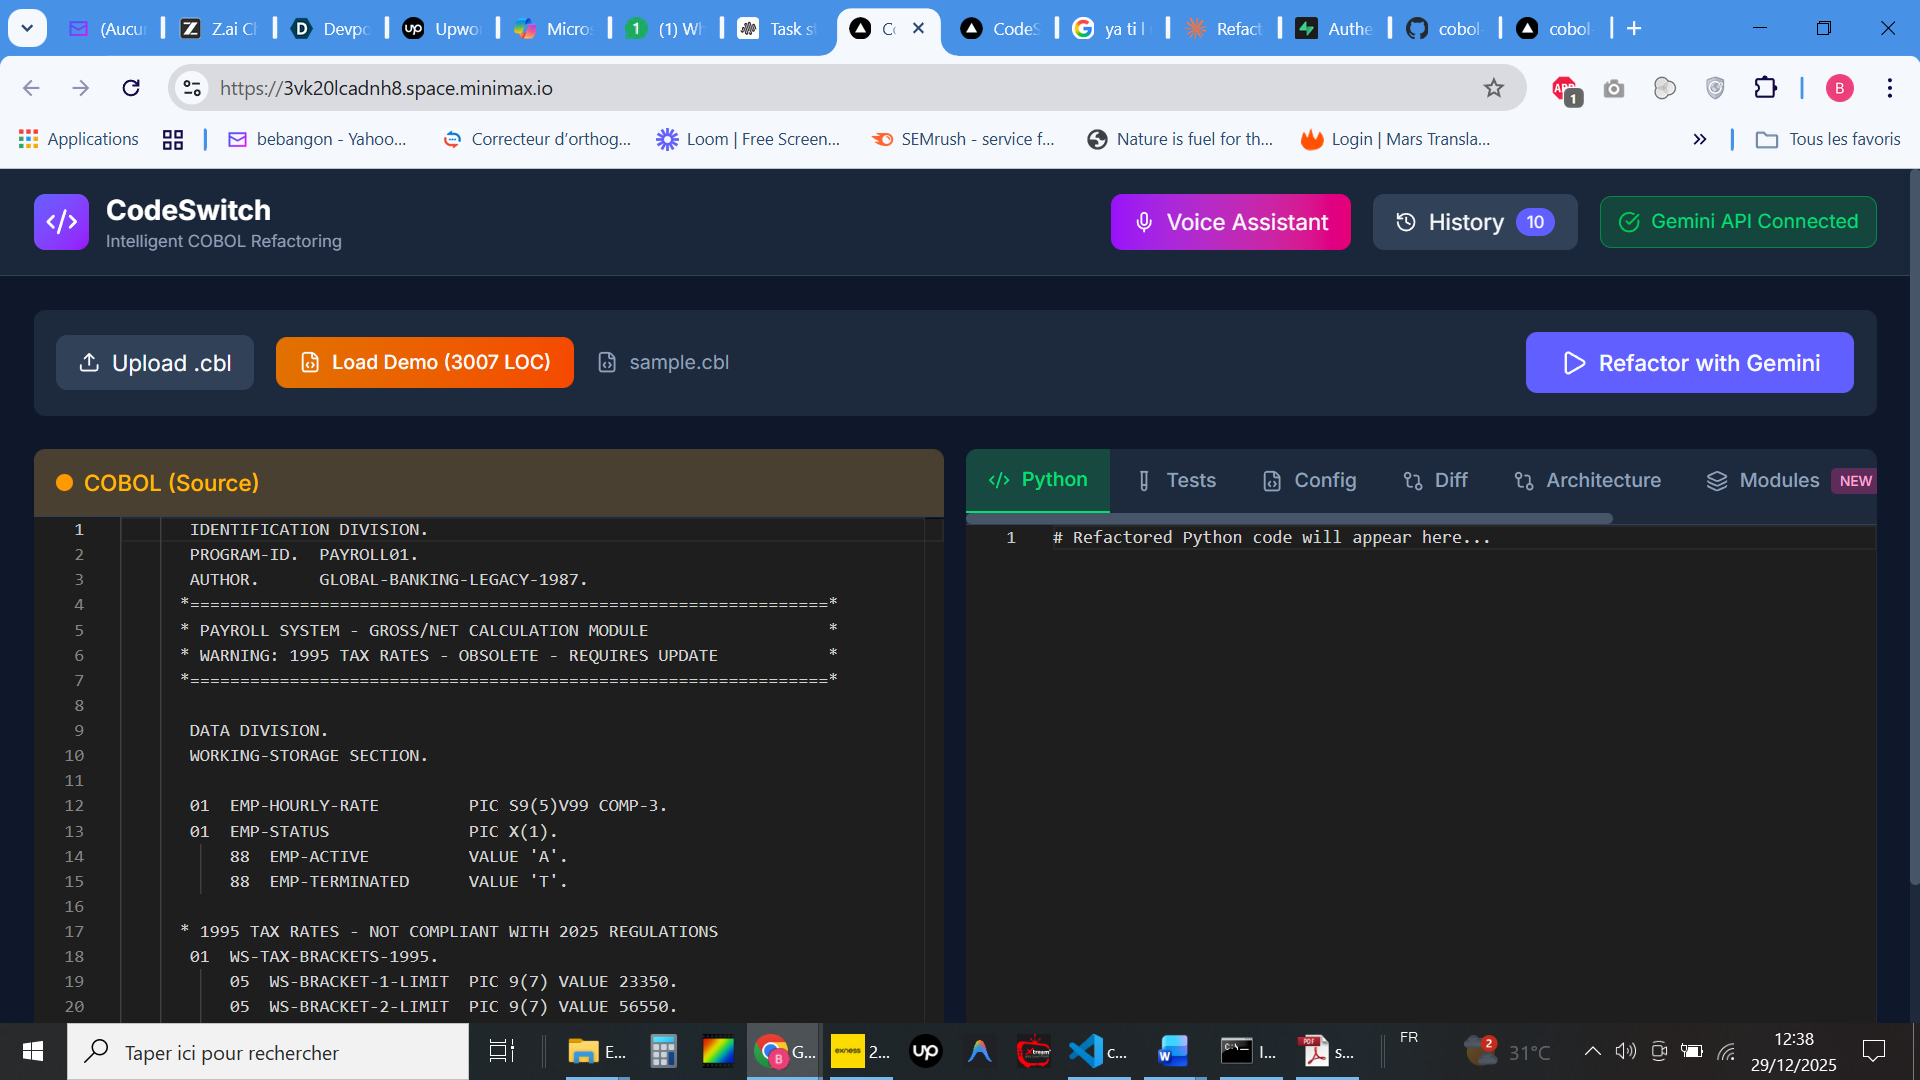
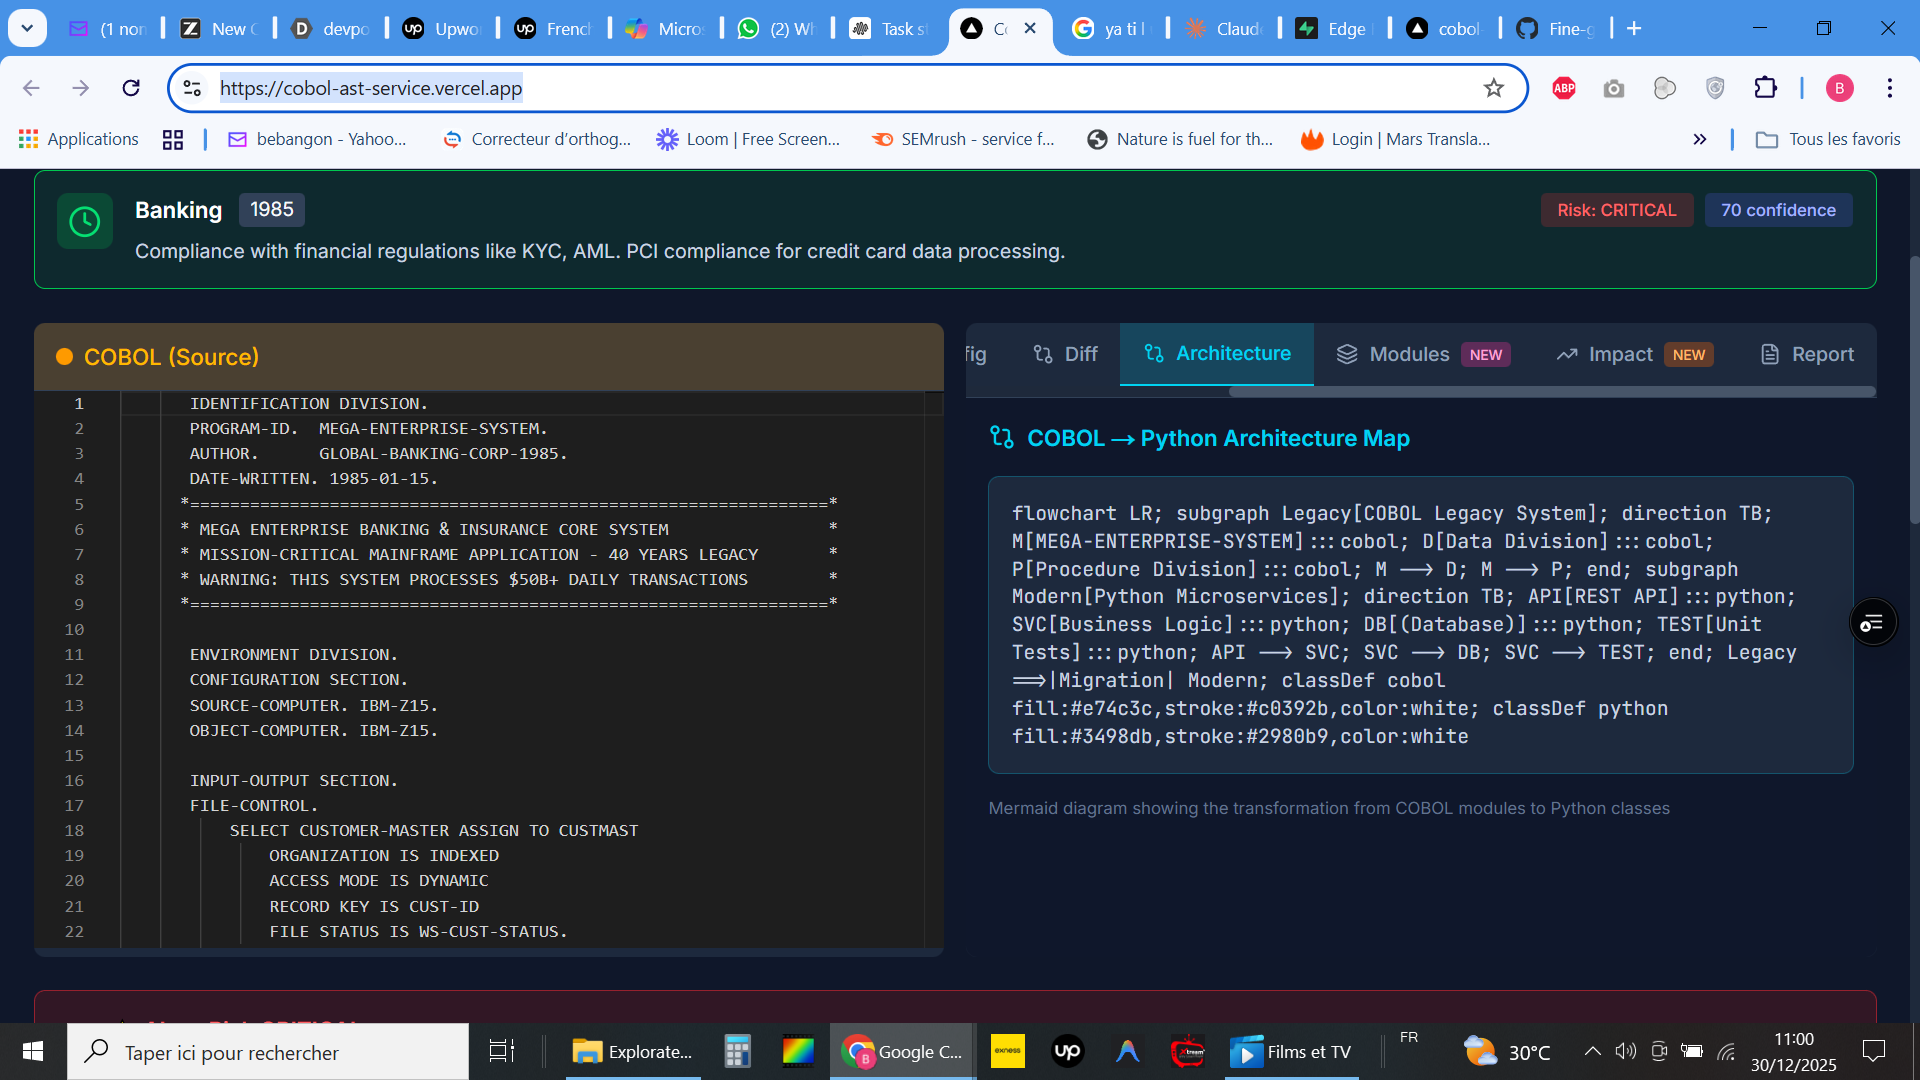
Message 350355015459016 - 1767088905

diff --git a/codeswitch-hackathon/app/api/analyse/route.ts b/codeswitch-hackathon/app/api/analyse/route.ts
@@ -49,7 +49,7 @@ Return ONLY a valid JSON object:
     "estimated_effort": "80 person-days",
     "confidence": 70
   },
-  "architecture_diagram": "graph TB; subgraph COBOL[Legacy COBOL]; A[Main Program]-->B[Data Division]; A-->C[Procedure Division]; C-->D[Paragraphs]; end; subgraph Python[Modern Python]; E[Main Class]-->F[DataClasses]; E-->G[Methods]; G-->H[Unit Tests]; end; A-.Migration.->E; B-.Transform.->F; D-.Convert.->G",
+  "architecture_diagram": "flowchart LR; subgraph Legacy[COBOL Legacy System]; direction TB; M[Main Program]:::cobol; D[Data Division]:::cobol; P[Procedure Division]:::cobol; M --> D; M --> P; end; subgraph Modern[Python Microservices]; direction TB; API[REST API]:::python; SVC[Business Logic]:::python; DB[(Database)]:::python; TEST[Unit Tests]:::python; API --> SVC; SVC --> DB; SVC --> TEST; end; Legacy ==>|Migration| Modern; classDef cobol fill:#e74c3c,stroke:#c0392b,color:white; classDef python fill:#3498db,stroke:#2980b9,color:white",
   "next_steps": ["Step 1", "Step 2"]
 }
 
